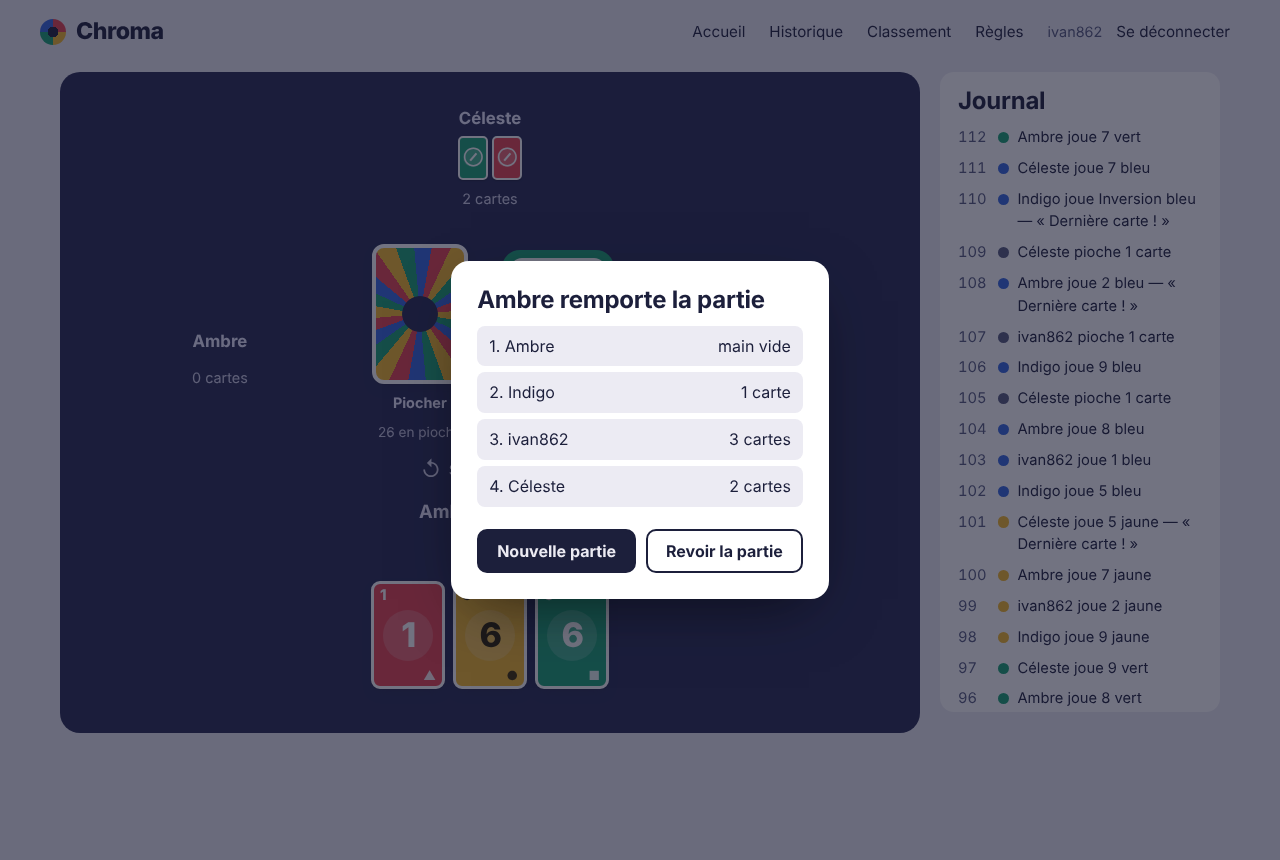
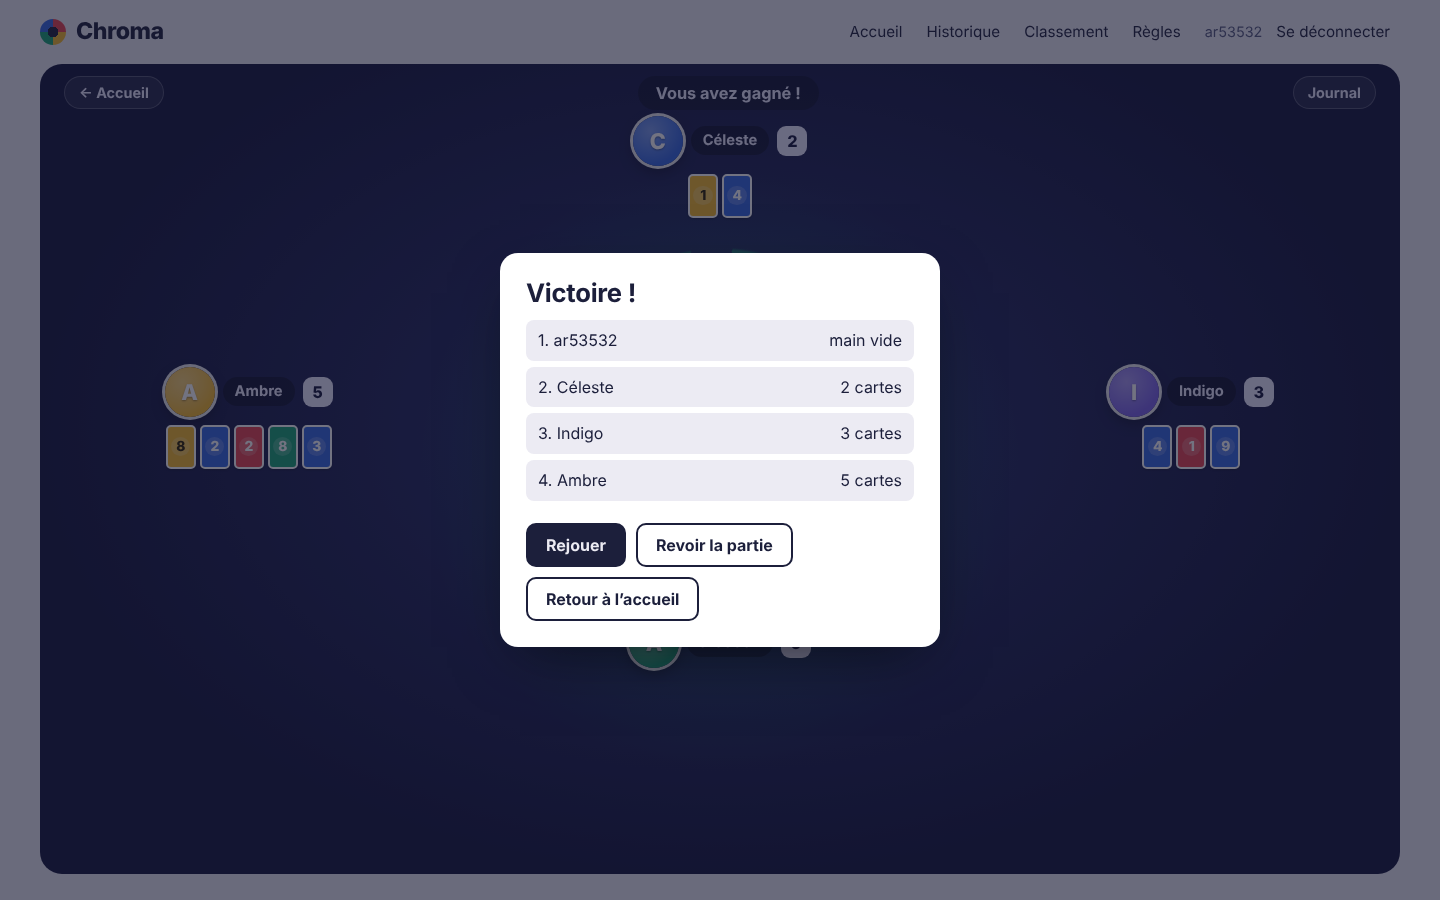
Documentation : README et captures à jour (table animée, version téléphone)

diff --git a/README.md b/README.md
@@ -29,16 +29,22 @@ MVP terminé (semaine 9) : toutes les fonctionnalités indispensables du [docume
 | Statistiques personnelles et classement général                         | ✅   |
 | Tableau de bord administrateur                                          | ✅   |
 
-Fonctionnalités secondaires réalisées en plus : mode sombre (suit le réglage du système) et formes ▲ ● ■ ◆ sur les cartes pour les daltoniens.
+Fonctionnalités secondaires réalisées en plus :
+
+- **Animations de jeu** : les cartes volent du joueur vers la défausse et de la pioche vers celui qui pioche, avec des effets (« +2 », « Passe ! », « Inversion ! »).
+- **Table de jeu façon arène** : adversaires assis autour de la table (avatar, nombre de cartes), main en éventail, halo de la couleur active et anneau qui tourne dans le sens du jeu.
+- **Version téléphone** : toutes les pages s'adaptent à l'écran ; en partie, la table occupe tout l'écran ([capture](docs/captures/7-mobile.png)).
+- **Fin de partie** : boutons « Rejouer », « Revoir la partie » et « Retour à l'accueil ».
+- Mode sombre (suit le réglage du système) et formes ▲ ● ■ ◆ sur les cartes pour les daltoniens.
 
 ## Historique du projet
 
-| Période                                | Travail                                                                                                                                                                                          |
-| -------------------------------------- | ------------------------------------------------------------------------------------------------------------------------------------------------------------------------------------------------ |
-| Semaine 3 (8 septembre 2026)           | Remise du [document de cadrage](docs/CADRAGE.md)                                                                                                                                                 |
-| Semaines 4 à 6 (jusqu'au 30 septembre) | Paquet de cartes, moteur de règles, bot facile, 21 tests Vitest (suivi de la semaine 6)                                                                                                          |
-| Semaine 9 (20 et 21 octobre)           | Base de données, authentification, API REST, bots moyen et difficile, interface, historique et rejeu, statistiques, classement, administration, tests d'API et de bout en bout, version autonome |
-| Semaine 10                             | Mise en ligne et démonstration                                                                                                                                                                   |
+| Période                                | Travail                                                                                                                                                                                                                                                            |
+| -------------------------------------- | ------------------------------------------------------------------------------------------------------------------------------------------------------------------------------------------------------------------------------------------------------------------ |
+| Semaine 3 (8 septembre 2026)           | Remise du [document de cadrage](docs/CADRAGE.md)                                                                                                                                                                                                                   |
+| Semaines 4 à 6 (jusqu'au 30 septembre) | Paquet de cartes, moteur de règles, bot facile, 21 tests Vitest (suivi de la semaine 6)                                                                                                                                                                            |
+| Semaine 9 (20 au 22 octobre)           | Base de données, authentification, API REST, bots moyen et difficile, interface, historique et rejeu, statistiques, classement, administration, tests d'API et de bout en bout, version autonome, mise en ligne sur Render, table de jeu animée, version téléphone |
+| Semaine 10                             | Démonstration                                                                                                                                                                                                                                                      |
 
 ## Démarrer
 

diff --git a/docs/CADRAGE.md b/docs/CADRAGE.md
@@ -191,6 +191,7 @@ _Les maquettes fil de fer sont dans le document de cadrage remis en semaine 3 (P
 | 3 — Fin de partie           | ![Fin de partie](captures/3b-fin-de-partie.png) |
 | 4 — Rejeu                   | ![Rejeu](captures/4-rejeu.png)                  |
 | 4 — Historique              | ![Historique](captures/4b-historique.png)       |
+| Téléphone — table de jeu    | ![Téléphone](captures/7-mobile.png)             |
 
 ---
 
